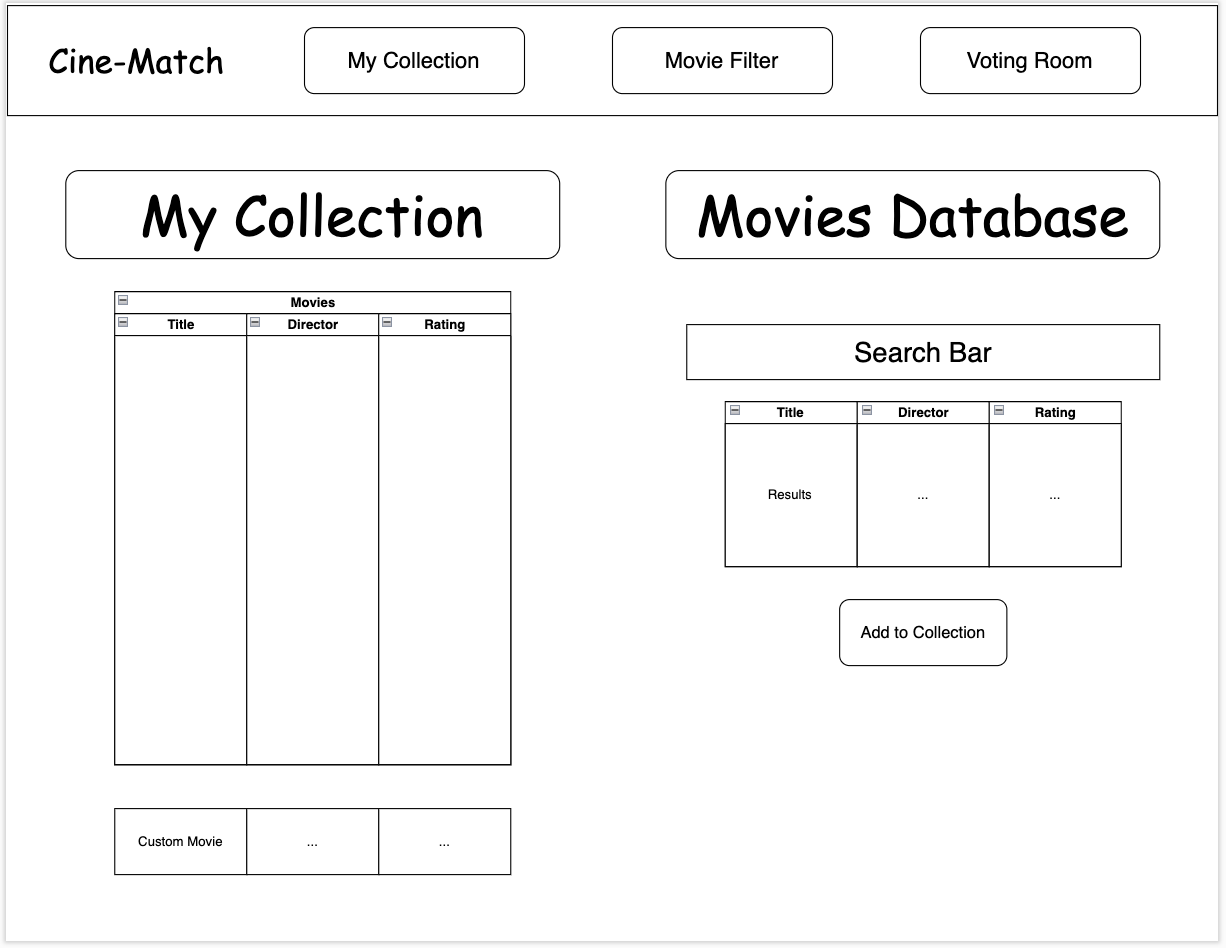
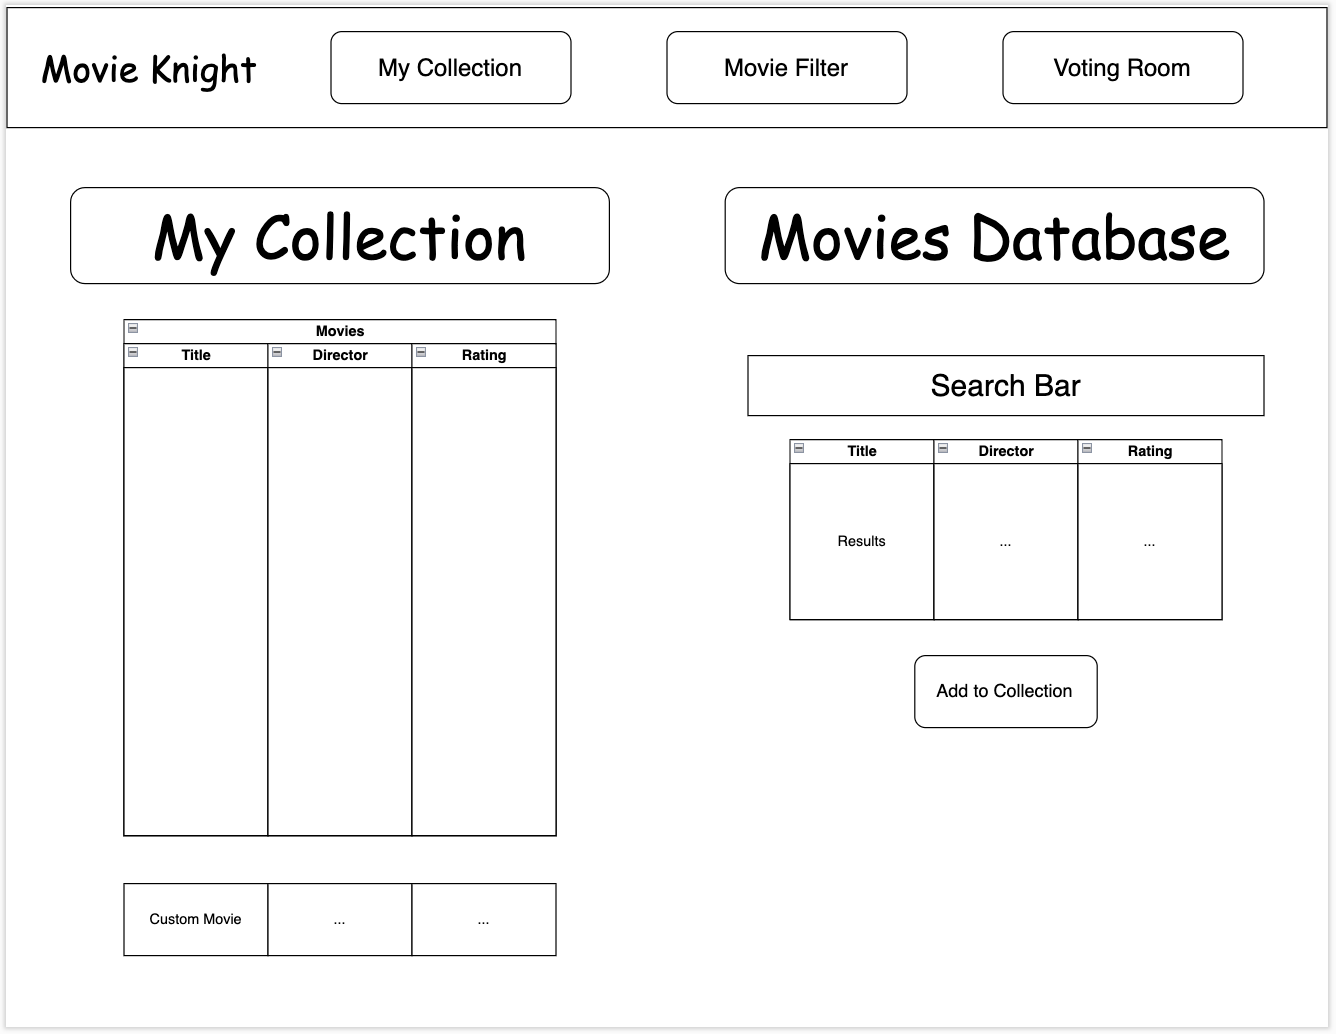
update README.md

diff --git a/README.md b/README.md
@@ -1,10 +1,10 @@
-# startup "Cine-Match"
+# startup "Movie Knight"
 A movie night movie selector app made with *HTML*, *CSS*, and *JS*, hosted through *AWS*.
 
 > ## Specifications
 
 ### Pitch
-Have you ever had a movie night where nobody could decide on a movie to watch? Do you wish it were easier to choose from so many movie options while making sure everyone gets a say? **Cine-Match** helps those looking to throw massive movie night extravaganzas, as well as the casual movie-watchers. Add movies to your personalized collection, then filter them by genre, director, release year, etc. Or host a room where other users can vote on their favorite movies to make the decision-making process a breeze.
+Have you ever had a movie night where nobody could decide on a movie to watch? Do you wish it were easier to choose from so many movie options while making sure everyone gets a say? **Movie Knight** helps those looking to throw massive movie night extravaganzas, as well as the casual movie-watchers. Add movies to your personalized collection, then filter them by genre, director, release year, etc. Or host a room where other users can vote on their favorite movies to make the decision-making process a breeze.
 
 ### Key Features
 
@@ -31,7 +31,7 @@ Have you ever had a movie night where nobody could decide on a movie to watch? D
 - Page 4: hosting or joining a room where users can vote on a movie to watch
 
 *CSS*
-- Cinema themed colors/styles
+- Medieval themed colors/styles
 - Adaptive layout based on screen size and/or device setup
 
 *JavaScript*
